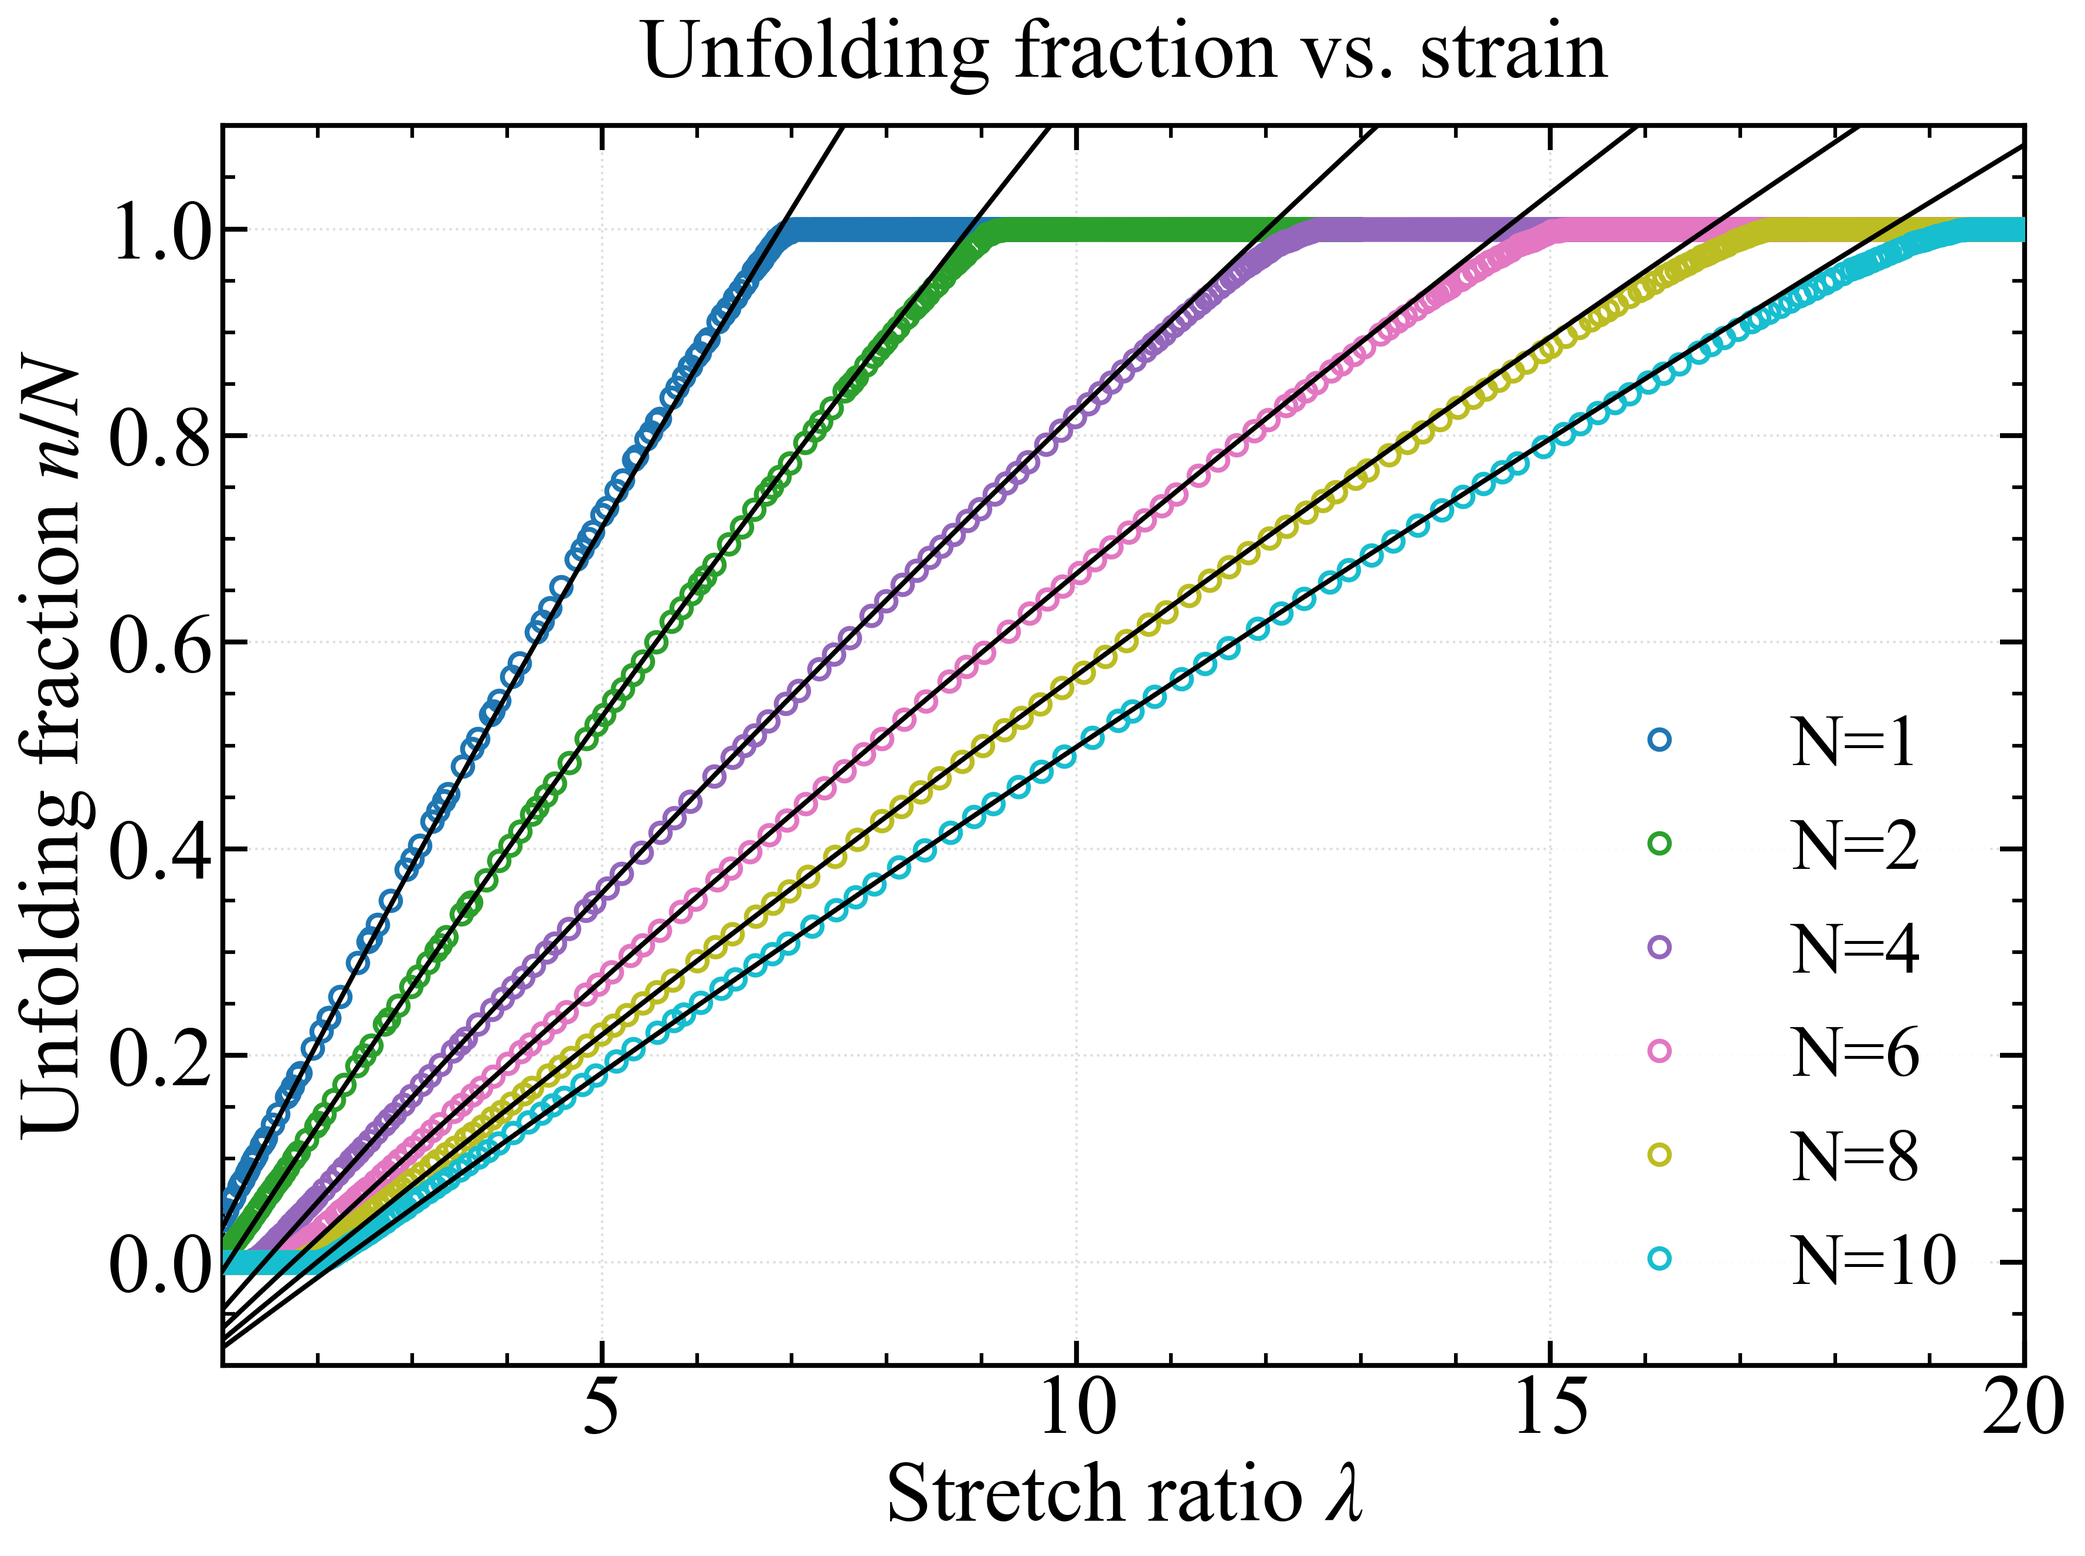
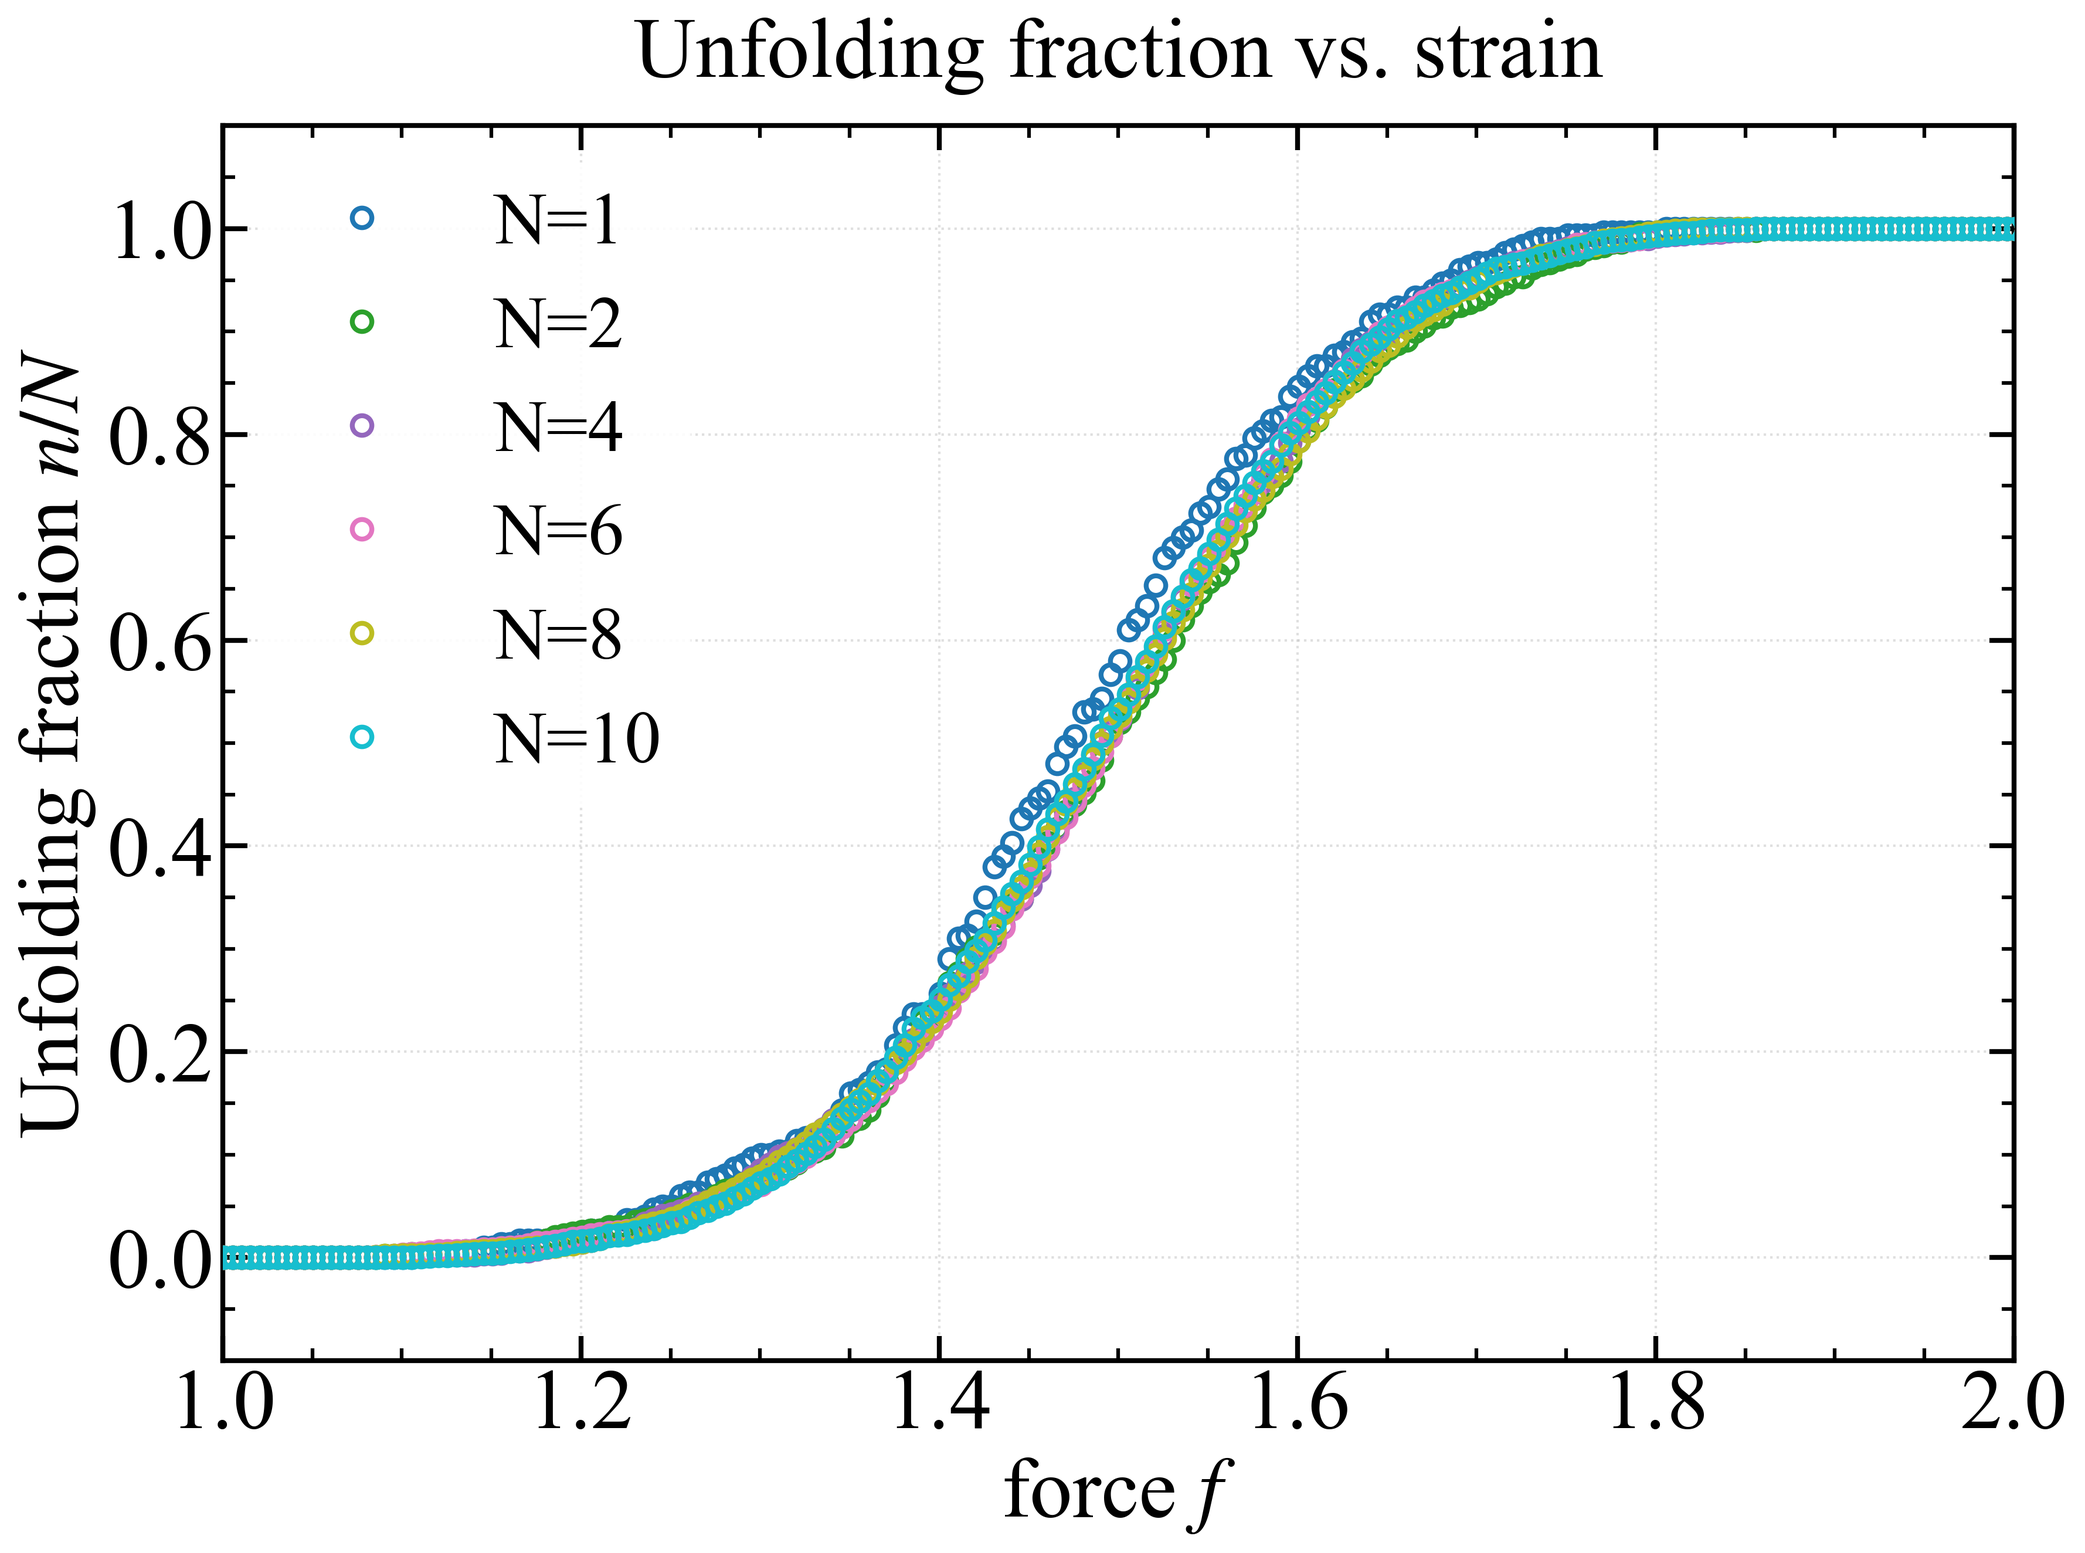
New changes

diff --git a/GB1_results/Networks_results/R0_N0.5/N=2.py b/GB1_results/Networks_results/R0_N0.5/N=2.py
@@ -1,0 +1,214 @@
+"""
+单独分析N=2的情况，绘制应力-应变曲线和展开分数-应变曲线
+"""
+import numpy as np
+import pandas as pd
+import matplotlib.pyplot as plt
+import matplotlib.font_manager as fm
+import os
+import sys
+
+# ============ 字体设置 ============
+font_path = '/usr/share/fonts/truetype/msttcorefonts/Times_New_Roman.ttf'
+
+# ============ 样式变量定义 ============
+font_family = 'Times New Roman'
+font_weight = 'normal'
+math_fontset = 'stix'
+math_rm = 'Times New Roman'
+math_it = 'Times New Roman:italic'
+math_bf = 'Times New Roman:bold'
+
+title_fontsize = 35
+label_fontsize = 35
+tick_fontsize = 35
+legend_fontsize = 30
+legend_title_fontsize = 35
+
+axes_linewidth = 2
+xtick_major_width = 2
+ytick_major_width = 2
+xtick_major_size = 10
+ytick_major_size = 10
+grid_linewidth = 1
+grid_alpha = 0.4
+lines_linewidth = 3
+lines_markersize = 35
+
+xtick_direction = 'in'
+ytick_direction = 'in'
+xtick_top = True
+ytick_right = True
+
+figure_dpi = 100
+savefig_dpi = 300
+
+# ============ 应用全局设置 ============
+if os.path.exists(font_path):
+    fm.fontManager.addfont(font_path)
+    font_prop = fm.FontProperties(fname=font_path)
+    plt.rcParams['font.family'] = font_prop.get_name()
+
+plt.rcParams.update({
+    'font.family': font_family,
+    'mathtext.fontset': math_fontset,
+    'mathtext.rm': math_rm,
+    'mathtext.it': math_it,
+    'mathtext.bf': math_bf,
+    'font.weight': font_weight,
+    'axes.titlesize': title_fontsize,
+    'axes.labelsize': label_fontsize,
+    'xtick.labelsize': tick_fontsize,
+    'ytick.labelsize': tick_fontsize,
+    'legend.fontsize': legend_fontsize,
+    'legend.title_fontsize': legend_title_fontsize,
+    'axes.linewidth': axes_linewidth,
+    'xtick.major.width': xtick_major_width,
+    'ytick.major.width': ytick_major_width,
+    'xtick.major.size': xtick_major_size,
+    'ytick.major.size': ytick_major_size,
+    'grid.linewidth': grid_linewidth,
+    'grid.alpha': grid_alpha,
+    'lines.linewidth': lines_linewidth,
+    'lines.markersize': lines_markersize,
+    'figure.dpi': figure_dpi,
+    'savefig.dpi': savefig_dpi,
+    'xtick.direction': xtick_direction,
+    'ytick.direction': ytick_direction,
+    'xtick.top': xtick_top,
+    'ytick.right': ytick_right,
+})
+
+# 基本参数
+xi_f = 3.6          # 折叠态持续长度
+alpha = 7.6         # 解折叠系数
+
+E_mean = 11.9       # 平均能量差
+E_std = 1.7         # 能量差的标准差
+
+N_val = 2.0       # domain 的数量
+N_test = [2.0,3.0]
+M = 300
+k1 = 6.5
+k2 = 1.48
+kR = 2.68           # 初始首末端距离 R0 = kR * N**0.5
+lambda_max = 30.0  # 最大伸长比
+Stress_max = 40.0  # 最大应力值
+
+def MSforce(x):
+    force = np.where(x < 0.99,
+                     0.25 * ((1 - x) ** (-2) - 1 + 4 * x),
+                     np.inf)
+    return force
+
+def R0ms(N):
+    L = N*xi_f
+    Rms = np.sqrt(2*L*(1 - 1/L*(1 - np.exp(-L))))
+
+    return Rms
+
+def load_average_curve_data(file_path):
+    """
+    从指定的CSV文件中加载平均曲线数据。
+    :param file_path: CSV文件路径
+    :return: f_val, r_val 两个numpy数组，分别表示第一列f和第二列r的值
+    """
+    if not os.path.exists(file_path):
+        raise FileNotFoundError(f"文件 {file_path} 不存在，请检查路径。")
+
+    data = pd.read_csv(file_path)
+    if len(data.columns) < 2:
+        raise ValueError("CSV文件必须至少包含两列数据。")
+    f_val = data.iloc[:, 0].values
+    r_val = data.iloc[:, 1].values
+    n_val = data.iloc[:, 2].values
+
+    return f_val, r_val, n_val
+
+def n_theory(f):
+    n = 0.5 + 0.5*np.tanh(k1*(f - k2))
+    return n
+
+def Plot_n(N_val, N_test, save_dir=None):
+
+    fig, ax = plt.subplots(1, 1, figsize=(12, 9))
+
+    filepath = f"/home/tyt/project/protein_gel/GB1_results/Multi_chains/N_{int(N_val)}_M_{M}_test_results/average_curves.csv"
+    f_val, r_val, n_val = load_average_curve_data(filepath)
+    ax.plot(f_val, n_val/N_val, 'o', color='blue', markerfacecolor='none',
+            markeredgewidth=2, markersize=10,
+            label=f'N={int(N_val)}', zorder=4)
+    n_theo = n_theory(f_val)
+    ax.plot(f_val, n_theo, '-', color='black', linewidth=lines_linewidth, label=f'Theory', zorder=4)
+
+    # 初始位置 未解折叠的初始相对拉伸
+    # 为不同 N 分配颜色
+    colors = ['#FF0000', '#FFD700', '#00FF00', '#1E90FF']
+    for idx, n in enumerate(N_test):
+        # R0 = kR * N**0.5
+        R0 = R0ms(n)
+        x_init = R0/(n*xi_f)
+        f_init = MSforce(x_init)
+        n_init = n_theory(f_init)
+        ax.plot(f_init, n_init, 's', color=colors[idx], markerfacecolor='none',
+                markeredgewidth=4, markersize=15,
+                label=f'$x_0$: N={int(n)}', zorder=4)
+        
+        # 标签与标题
+    ax.set_xlabel('force $f$', fontsize=label_fontsize)
+    ax.set_ylabel('Unfolding fraction $n/N$', fontsize=label_fontsize)
+    ax.set_title(f'Unfolding fraction vs. strain', 
+                  fontsize=title_fontsize, pad=20)
+
+    # 网格
+    ax.grid(True, alpha=grid_alpha, linestyle=':', linewidth=grid_linewidth)
+
+    # 图例：模拟点和理论线合并为一个图例项（通过句柄去重实现）
+    ax.legend(fontsize=legend_fontsize, framealpha=0.9, edgecolor='none', loc='best')
+
+    ax.set_xlim(0.0, 4.0)
+    ax.set_ylim(-0.1, 1.1)
+
+    ax.tick_params(axis='both', which='major',
+                    direction=xtick_direction,
+                    top=xtick_top,
+                    right=ytick_right,
+                    bottom=True, left=True,
+                    width=xtick_major_width,
+                    length=xtick_major_size)
+    ax.tick_params(axis='both', which='minor',
+                    direction=xtick_direction,
+                    top=xtick_top,
+                    right=ytick_right,
+                    bottom=True, left=True,
+                    width=xtick_major_width*0.75,
+                    length=xtick_major_size*0.5,
+                    labelbottom=False, labelleft=False)
+    ax.minorticks_on()
+
+    for spine in ax.spines.values():
+        spine.set_linewidth(axes_linewidth)
+
+    plt.tight_layout()
+    if save_dir:
+        save_path = os.path.join(save_dir, f'N={int(N_val)}_n_compare.png')
+        fig.savefig(save_path, dpi=savefig_dpi, bbox_inches='tight',
+                     facecolor='white', edgecolor='none')
+        print(f"展开分数曲线已保存至: {save_path}") 
+
+
+def main():
+    print("=" * 80)
+    print("开始计算...")
+    print("=" * 80)
+
+    data_dir = "/home/tyt/project/protein_gel/GB1_results/Networks_results/R0_N0.5"  # 可修改为你希望的输出路径
+    output_dir = data_dir
+    Plot_n(N_val, N_test, save_dir=output_dir)
+
+    print("=" * 80)
+    print("计算完成。")
+    print("=" * 80)
+
+if __name__ == "__main__":
+    main()

diff --git a/GB1_results/Networks_results/R0_N0.5/G0_N.py b/GB1_results/Networks_results/R0_N0.5/G0_N.py
@@ -80,12 +80,12 @@ plt.rcParams.update({
 # ============ 核心物理参数 ============
 xi_f = 3.6
 alpha = 7.6
-k1 = 6.5
-k2 = 1.48
+k1 = 7.5
+k2 = 1.5
 kR = 2.68           # 初始首末端距离 R0 = kR * N**0.5
 
 N_Area2_fixed = 8.0    # 部分解折叠模型中固定使用的 N
-N_vals = np.linspace(1.0, 10.0, 50)  # 数值优化离散点
+N_vals = np.linspace(1.0, 10.0, 10)  # 数值优化离散点
 Rtheo_points = 200
 
 # ===================== 基础物理函数 =====================
@@ -127,7 +127,7 @@ def StressOptimization(R0, N, r_val, f_val):
         sigma[0] = 0.0
     return lambda_, sigma
 
-def initial_modulus_num(R0, N, fit_points=2):
+def initial_modulus_num(R0, N, fit_points=5):
     """数值计算初始模量 G₀"""
     x_MS = np.linspace(0.01, 0.99, 3000)
     f_MS = MSforce(x_MS)
@@ -245,6 +245,46 @@ def calculate_G0_critical(R0, N):
     
     return G0
 
+# ===================== 针对部分打开初态：使用渐近，理论 G0 计算函数 =====================
+def calculate_InitModulus_area2(R0, N):
+    """
+    基于 Area 2 (部分解折叠) 的理论近似解析解求初始模量 G0
+    严格依据图片中 r(f) = a + bΔf + c(Δf)^2 的近似推导确定 a、b、c
+    """
+    
+    # 1. 计算 L_c(f) 近似展开系数
+    # L_c(f) ≈ L0 + L1 * Δf
+    L0 = N * xi_f * (alpha + 1) / 2
+    L1 = N * xi_f * (alpha - 1) / 2 * k1
+    
+    # 2. 计算 x_MS(f) 近似展开系数
+    # x_MS(f) ≈ X0 + X1 * Δf
+    # (k_B T = 1, l_p = 1)
+    X0 = 1 - 1 / np.sqrt(k2)
+    X1 = 1 / (2 * k2**1.5)
+    
+    # 3. 确定二次多项式 r(f) = a + b*Δf + c*(Δf)^2 中的系数
+    a = X0 * L0
+    b = X1 * L0 + X0 * L1
+    c = X1 * L1
+    
+    # 4. 计算 f(R0) 和 f'(R0) (逆函数求解)
+    # 防止数值误差导致 delta < 0，使用 max(0, ...) 过滤
+    discriminant = max(0, b**2 - 4 * c * (a - R0))
+    sqrt_disc = np.sqrt(discriminant)
+    
+    # 避免分母为 0 的极端情况
+    if sqrt_disc < 1e-12:
+        return 0.0
+        
+    f_R0 = k2 + (-b + sqrt_disc) / (2 * c)
+    f_prime_R0 = 1 / sqrt_disc
+    
+    # 5. 计算 G0 (取 rho*kB_T/l_p = 1)
+    G0 = R0 * (R0 / 2 * f_prime_R0 + 1.5 * f_R0)
+    
+    return G0
+
 # ===================== 可视化函数 =====================
 def plot_G0_vs_N_area1(N_vals, kR=0.5, save_dir=None):
     """
@@ -291,7 +331,6 @@ def plot_G0_vs_N_area1(N_vals, kR=0.5, save_dir=None):
         print(f"Area1 曲线已保存至: {path}")
 
 # ===================== 修改后的绘图函数 =====================
-# ===================== 修改后的绘图函数 =====================
 def plot_G0_vs_N_area2(N_vals, kR=2.68, save_dir=None):
     """
     绘制第二种情况 (部分解折叠) G₀ 随 N 变化
@@ -315,24 +354,25 @@ def plot_G0_vs_N_area2(N_vals, kR=2.68, save_dir=None):
 
     # 2. 新增：理论解析解 (Area 1) - 蓝实线
     G0_theo_area1 = [calculate_G0_area1(R0ms(n), n) for n in N_theo]
-    ax.plot(N_theo, G0_theo_area1, '--', color='blue', linewidth=lines_linewidth, label='Fully Folded', alpha=0.8, zorder=5)
+    ax.plot(N_theo, G0_theo_area1, '-', color='blue', linewidth=lines_linewidth, label='Fully Folded', alpha=0.8, zorder=5)
     
     # 3. 理论解析解 (Area 2) - 原图的理论线
     G0_theo_area2 = [calculate_G0_area2(R0ms(n), n) for n in N_theo]
     ax.plot(N_theo, G0_theo_area2, '-', color='orange', linewidth=lines_linewidth, label='Partially Unfolded', alpha=0.8, zorder=5)
 
-    G0_theo_critical = [calculate_G0_critical(R0ms(n), n) for n in N_theo]
-    ax.plot(N_theo, G0_theo_critical, '-', color='red', linewidth=lines_linewidth, label='Critical case', alpha=0.8, zorder=5)
+    # G0_theo_critical = [calculate_G0_critical(R0ms(n), n) for n in N_theo]
+    # ax.plot(N_theo, G0_theo_critical, '-', color='red', linewidth=lines_linewidth, label='Critical case', alpha=0.8, zorder=5)
+
+    # G0_theo_Initial = [calculate_InitModulus_area2(R0ms(n), n) for n in N_theo]
+    # ax.plot(N_theo, G0_theo_Initial, '-', color='green', linewidth=lines_linewidth, label='Initial Modulus', alpha=0.8, zorder=5)
 
     ax.set_xlabel('Number of domains $N$', fontsize=label_fontsize)
     ax.set_ylabel('Initial modulus $G_0$', fontsize=label_fontsize)
-    ax.set_title(f'Initial modulus $G_0$ vs. $N$ ($R_0 = {kR} \\sqrt{{N}}$)', fontsize=title_fontsize, pad=20)
+    ax.set_title(f'Initial modulus $G_0$ vs. $N$', fontsize=title_fontsize, pad=20)
     ax.grid(True, alpha=grid_alpha, linestyle=':', linewidth=grid_linewidth)
     ax.legend(fontsize=legend_fontsize, framealpha=0.9, edgecolor='none', loc='best')
     
     ax.set_xlim(1.0, 10.5)
-    # Area2 的理论值通常比 Area1 大很多，强制 ylim(0.0, 1.0) 会导致高值被切断
-    # 这里建议不加 ylim，或者您可以根据数据动态设置 ylim
     ax.set_ylim(0.0, 20.0) 
     
     ax.tick_params(axis='both', which='major', direction=xtick_direction, top=xtick_top, right=ytick_right)

diff --git a/GB1_results/Networks_results/R0_N0.5/Stress_compare.py b/GB1_results/Networks_results/R0_N0.5/Stress_compare.py
@@ -144,7 +144,8 @@ def x_theory(lam, N):
     B = (alpha + 1) / 2 - A * xc
     
     # 根据代码，R0 = kR * N**0.5，得出 x0 = R0 / (N * xi_f)
-    x0 = kR / (np.sqrt(N) * xi_f) 
+    # x0 = kR / (np.sqrt(N) * xi_f) 
+    x0 = R0ms(N) / (N * xi_f) 
     
     # 4. 套用一元二次方程求根公式计算 x(lambda)
     inside_sqrt = B**2 + 4 * A * x0 * lam
@@ -359,7 +360,7 @@ def create_visualization(save_dir=None):
         save_path2 = os.path.join(save_dir, f'k_R={kR}_x_compare.png')
         fig2.savefig(save_path2, dpi=savefig_dpi, bbox_inches='tight',
                      facecolor='white', edgecolor='none')
-        print(f"本构曲线已保存至: {save_path2}")
+        print(f"相对拉伸曲线已保存至: {save_path2}")
 
 
     fig3, ax3 = plt.subplots(1, 1, figsize=(12, 9))
@@ -372,14 +373,14 @@ def create_visualization(save_dir=None):
         n_theo = n_theory(lam_val, N)
         n_frac = n_val / N
         n_frac_theo = n_theo / N
-        ax3.plot(lam_val, n_frac, 'o', color=colors[idx], markerfacecolor='none',
+        ax3.plot(f_val, n_frac, 'o', color=colors[idx], markerfacecolor='none',
                 markeredgewidth=2, markersize=8,
                 label=f'N={int(N)}', zorder=4)
-        ax3.plot(r_val/R0, n_frac_theo, '-', color='black', linewidth=2, zorder=5)
+        # ax3.plot(f_val, n_frac_theo, '-', color='black', linewidth=2, zorder=5)
         
 
         # 标签与标题
-    ax3.set_xlabel('Stretch ratio $\lambda$', fontsize=label_fontsize)
+    ax3.set_xlabel('force $f$', fontsize=label_fontsize)
     ax3.set_ylabel('Unfolding fraction $n/N$', fontsize=label_fontsize)
     ax3.set_title(f'Unfolding fraction vs. strain', 
                   fontsize=title_fontsize, pad=20)
@@ -397,7 +398,7 @@ def create_visualization(save_dir=None):
               fontsize=legend_fontsize, framealpha=0.9,
               edgecolor='none', loc='best')
 
-    ax3.set_xlim(1.0, 20)
+    ax3.set_xlim(1.0, 2.0)
     ax3.set_ylim(-0.1, 1.1)
 
     ax3.tick_params(axis='both', which='major',
@@ -425,7 +426,7 @@ def create_visualization(save_dir=None):
         save_path3 = os.path.join(save_dir, f'k_R={kR}_n_compare.png')
         fig3.savefig(save_path3, dpi=savefig_dpi, bbox_inches='tight',
                      facecolor='white', edgecolor='none')
-        print(f"本构曲线已保存至: {save_path3}") 
+        print(f"展开分数曲线已保存至: {save_path3}") 
 
 
 def main():
